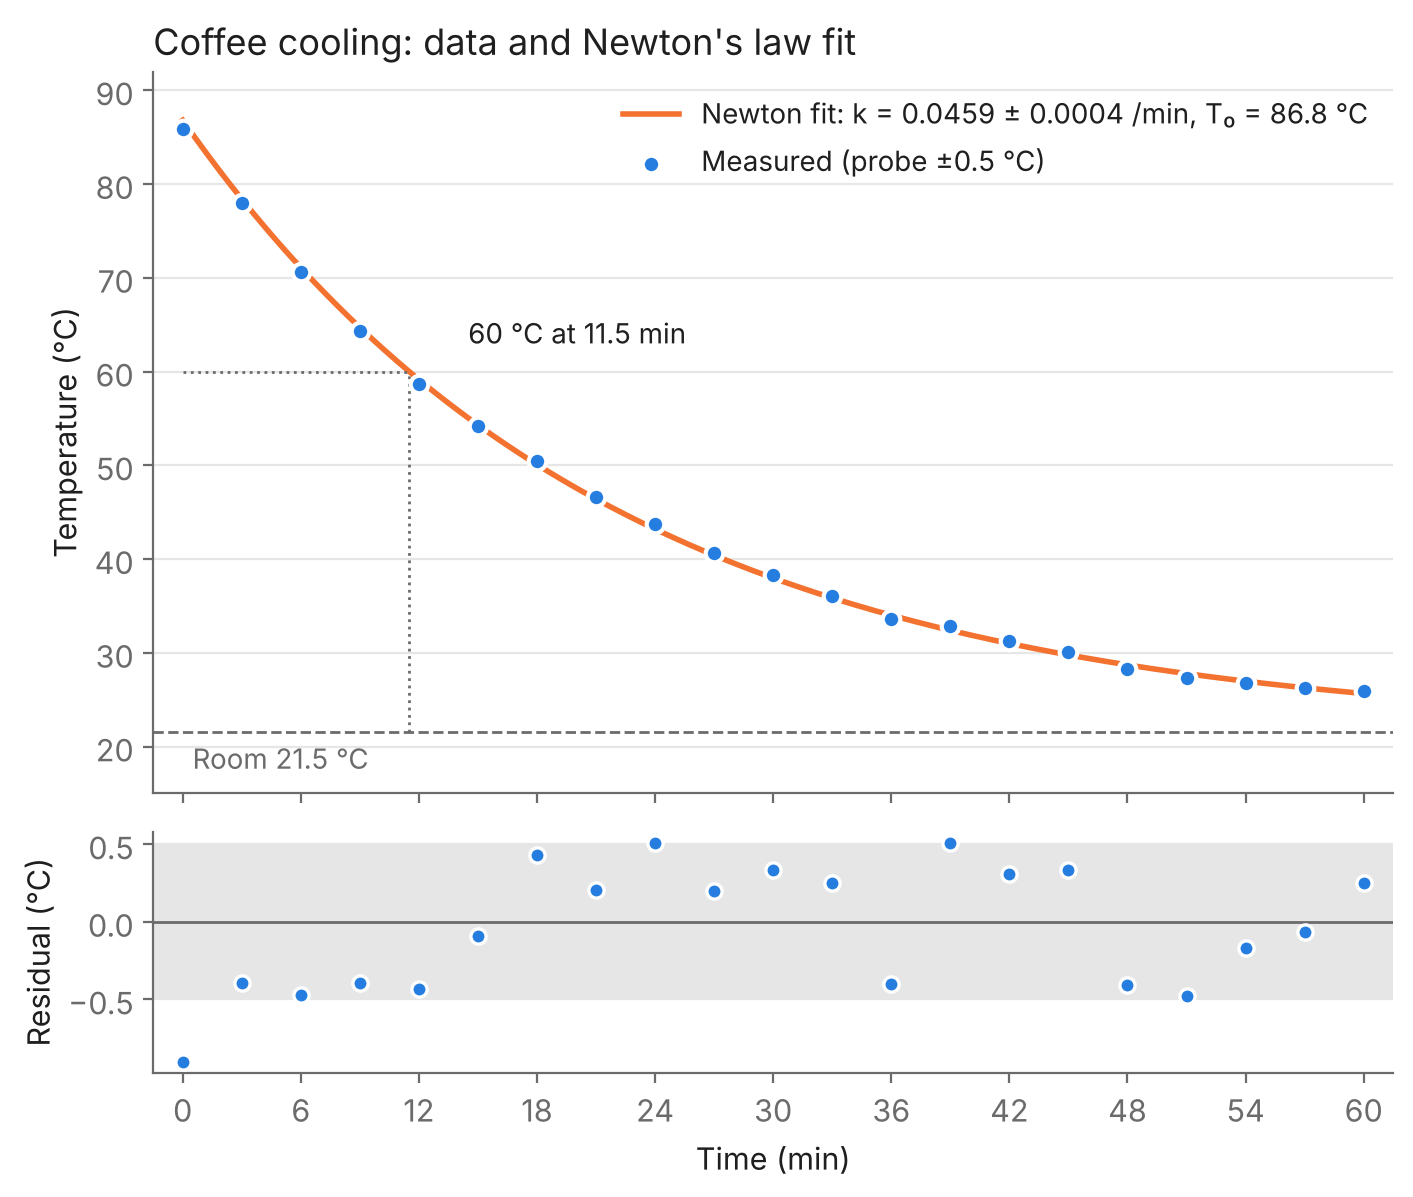
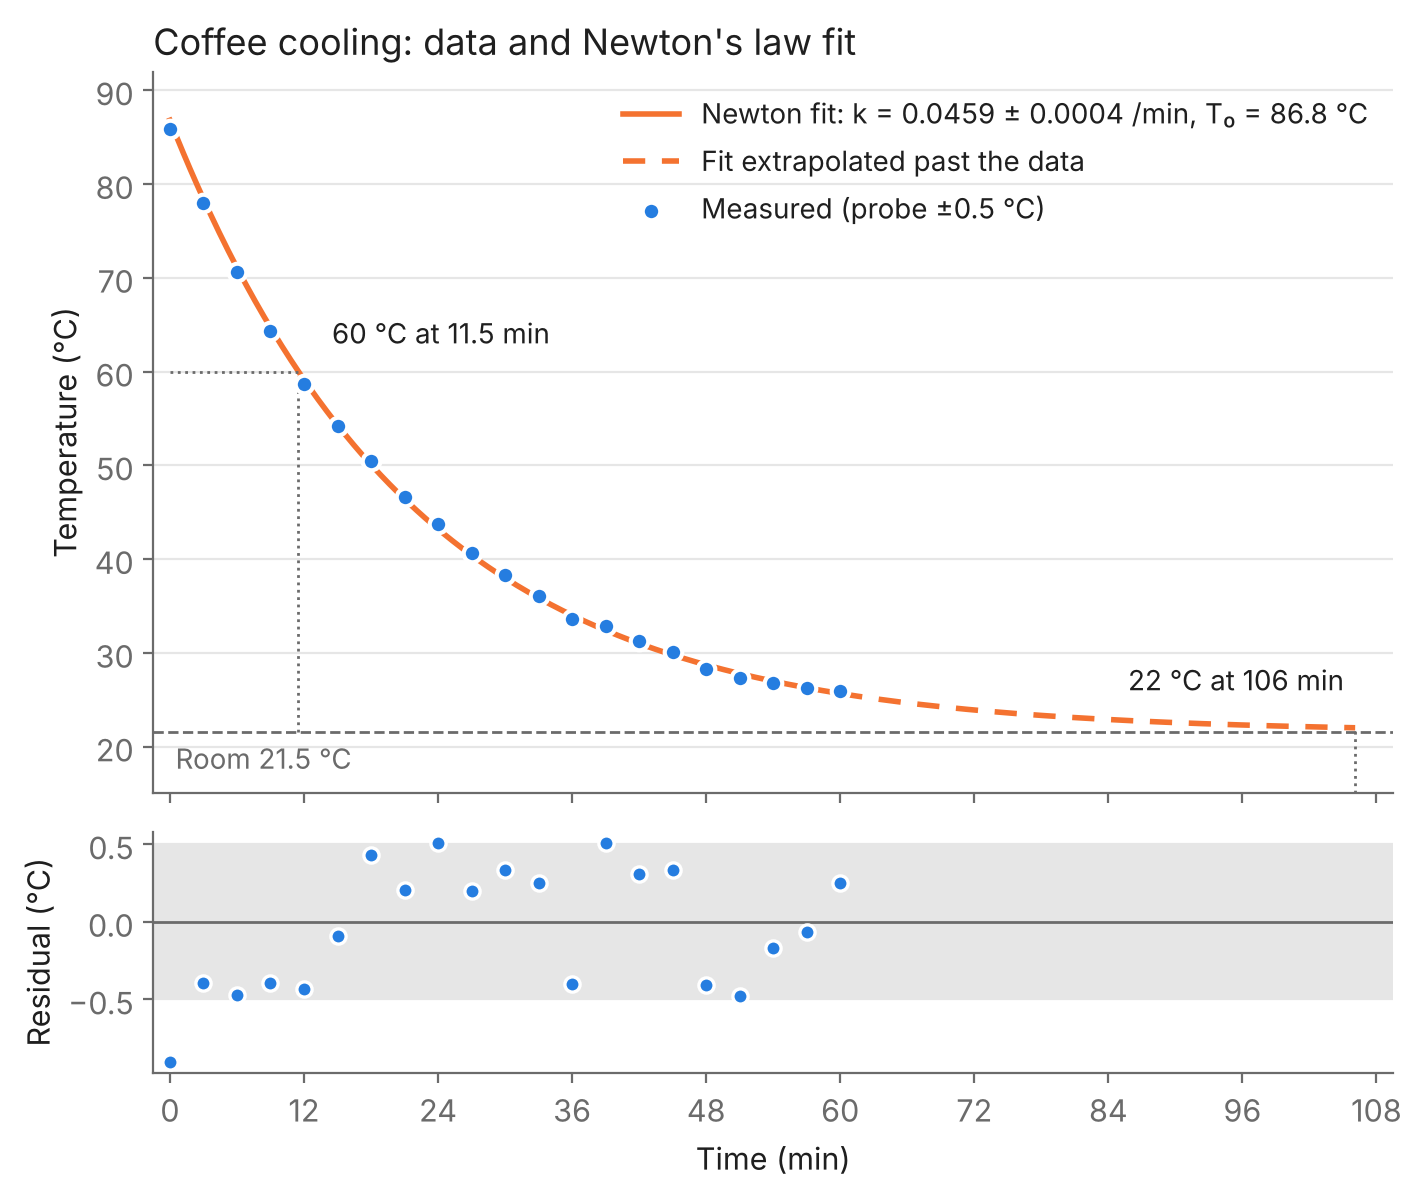
Extend the cooling plot until the fit reaches 22 °C
The fit curve now continues past the last reading (60 min), dashed, until it
reaches 22 °C at about 106 min; the time axis runs to 108 min.

AI-Generation: G3

Claude-Session: https://claude.ai/code/session_012HAeeWE4LuK7e2AimDbveq

diff --git a/analysis/plot_cooling.py b/analysis/plot_cooling.py
@@ -2,6 +2,7 @@
 
 Uses the fit from fit_cooling.py, so the parameters match results/summary.md.
 The lower panel shows the residuals against the probe's +/-0.5 C accuracy band.
+The fit curve continues, dashed, past the last reading until it reaches 22 C.
 Needs numpy and matplotlib:
 
     python analysis/plot_cooling.py data/coffee-cooling.csv results/coffee-cooling-fit.png
@@ -22,6 +23,7 @@ import fit_cooling as fc
 
 PROBE_ACCURACY = 0.5  # degrees C (notes/lab-notes.md)
 DRINKABLE = 60.0  # degrees C
+NEARLY_ROOM = 22.0  # degrees C: the fit curve is drawn until it reaches this
 
 BLUE, ORANGE = "#257de0", "#f47230"
 INK, INK2, GRID = "#1f1f1f", "#6b6b6b", "#e6e6e6"
@@ -35,7 +37,10 @@ def main(data_path, out_path):
     def model(x):
         return fc.T_ROOM + (T0 - fc.T_ROOM) * np.exp(-k * np.asarray(x))
 
-    t60 = math.log((T0 - fc.T_ROOM) / (DRINKABLE - fc.T_ROOM)) / k
+    def time_to(temp):
+        return math.log((T0 - fc.T_ROOM) / (temp - fc.T_ROOM)) / k
+
+    t60, t_end = time_to(DRINKABLE), time_to(NEARLY_ROOM)
     residuals = np.array(T) - model(t)
 
     plt.rcParams.update({"font.size": 11, "axes.edgecolor": INK2, "axes.labelcolor": INK,
@@ -48,12 +53,17 @@ def main(data_path, out_path):
     tt = np.linspace(min(t), max(t), 300)
     ax.plot(tt, model(tt), color=ORANGE, lw=2, zorder=2,
             label=f"Newton fit: k = {k:.4f} ± {k_err:.4f} /min, T₀ = {T0:.1f} °C")
+    tt = np.linspace(max(t), t_end, 200)  # beyond the last reading
+    ax.plot(tt, model(tt), color=ORANGE, lw=2, ls=(0, (4, 3)), zorder=2, label="Fit extrapolated past the data")
     ax.scatter(t, T, s=40, color=BLUE, edgecolor="white", linewidth=1.5, zorder=3,
                label=f"Measured (probe ±{PROBE_ACCURACY} °C)")
     ax.plot([t60, t60], [fc.T_ROOM, DRINKABLE], color=INK2, lw=1, ls=":")
     ax.plot([0, t60], [DRINKABLE, DRINKABLE], color=INK2, lw=1, ls=":")
     ax.annotate(f"{DRINKABLE:.0f} °C at {t60:.1f} min", (t60, DRINKABLE),
                 xytext=(t60 + 3, DRINKABLE + 3), color=INK, fontsize=10)
+    ax.plot([t_end, t_end], [15, NEARLY_ROOM], color=INK2, lw=1, ls=":")
+    ax.annotate(f"{NEARLY_ROOM:.0f} °C at {t_end:.0f} min", (t_end, NEARLY_ROOM),
+                xytext=(t_end - 1, NEARLY_ROOM + 4), ha="right", color=INK, fontsize=10)
     ax.set_ylabel("Temperature (°C)")
     ax.set_ylim(15, 92)
     ax.set_title("Coffee cooling: data and Newton's law fit", loc="left", color=INK, fontsize=13)
@@ -64,8 +74,9 @@ def main(data_path, out_path):
     ar.scatter(t, residuals, s=30, color=BLUE, edgecolor="white", linewidth=1.2, zorder=3)
     ar.set_ylabel("Residual (°C)")
     ar.set_xlabel("Time (min)")
-    ar.set_xlim(-1.5, 61.5)
-    ar.set_xticks(range(0, 61, 6))
+    x_max = 12 * math.ceil(t_end / 12)
+    ar.set_xlim(-1.5, x_max + 1.5)
+    ar.set_xticks(range(0, x_max + 1, 12))
 
     for axis in (ax, ar):
         axis.grid(axis="y", color=GRID, lw=0.8)
